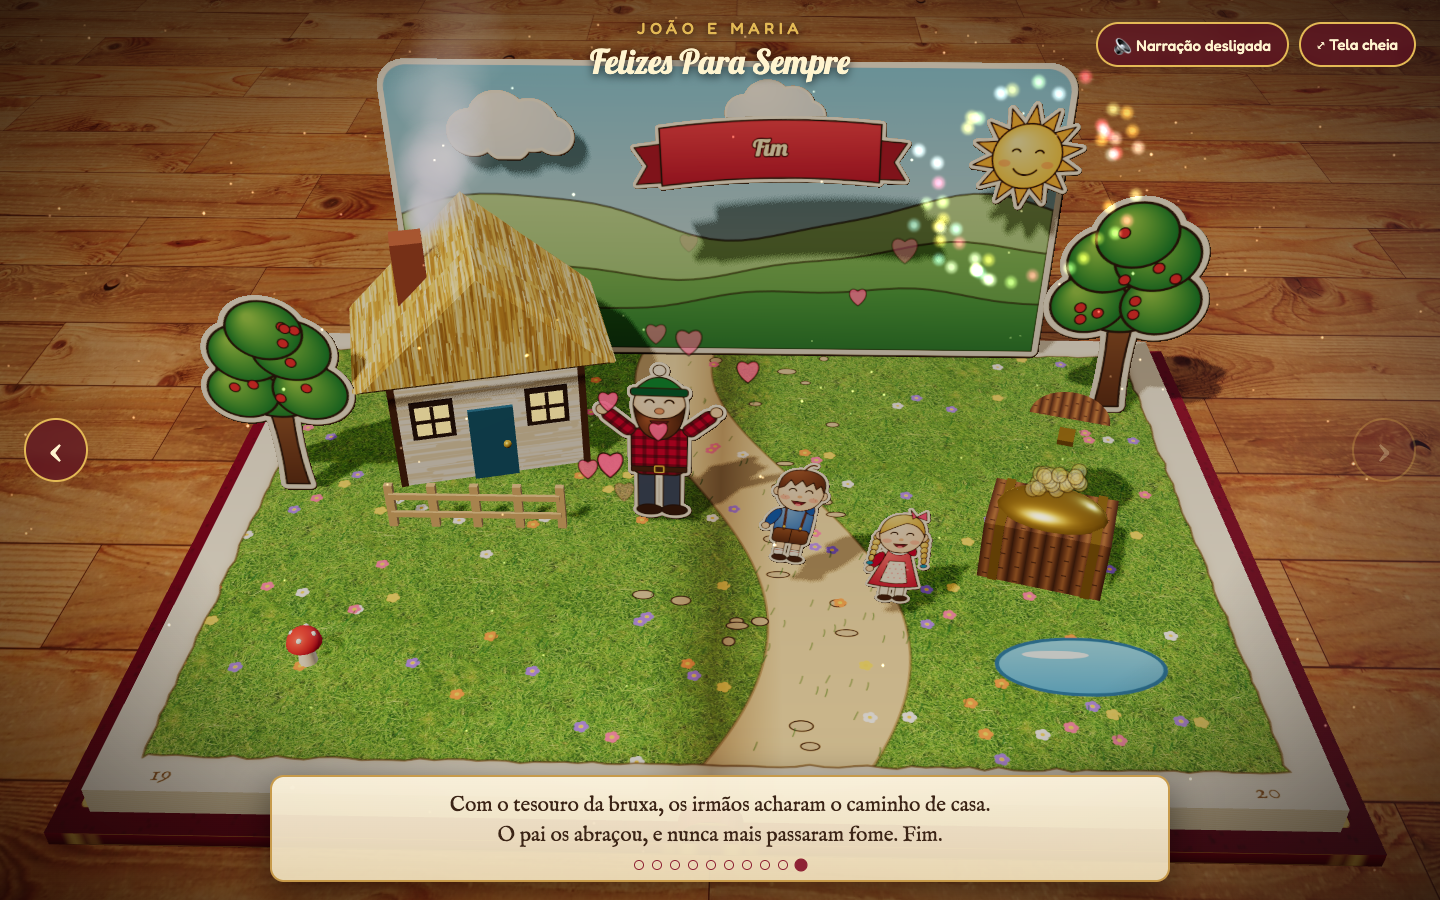
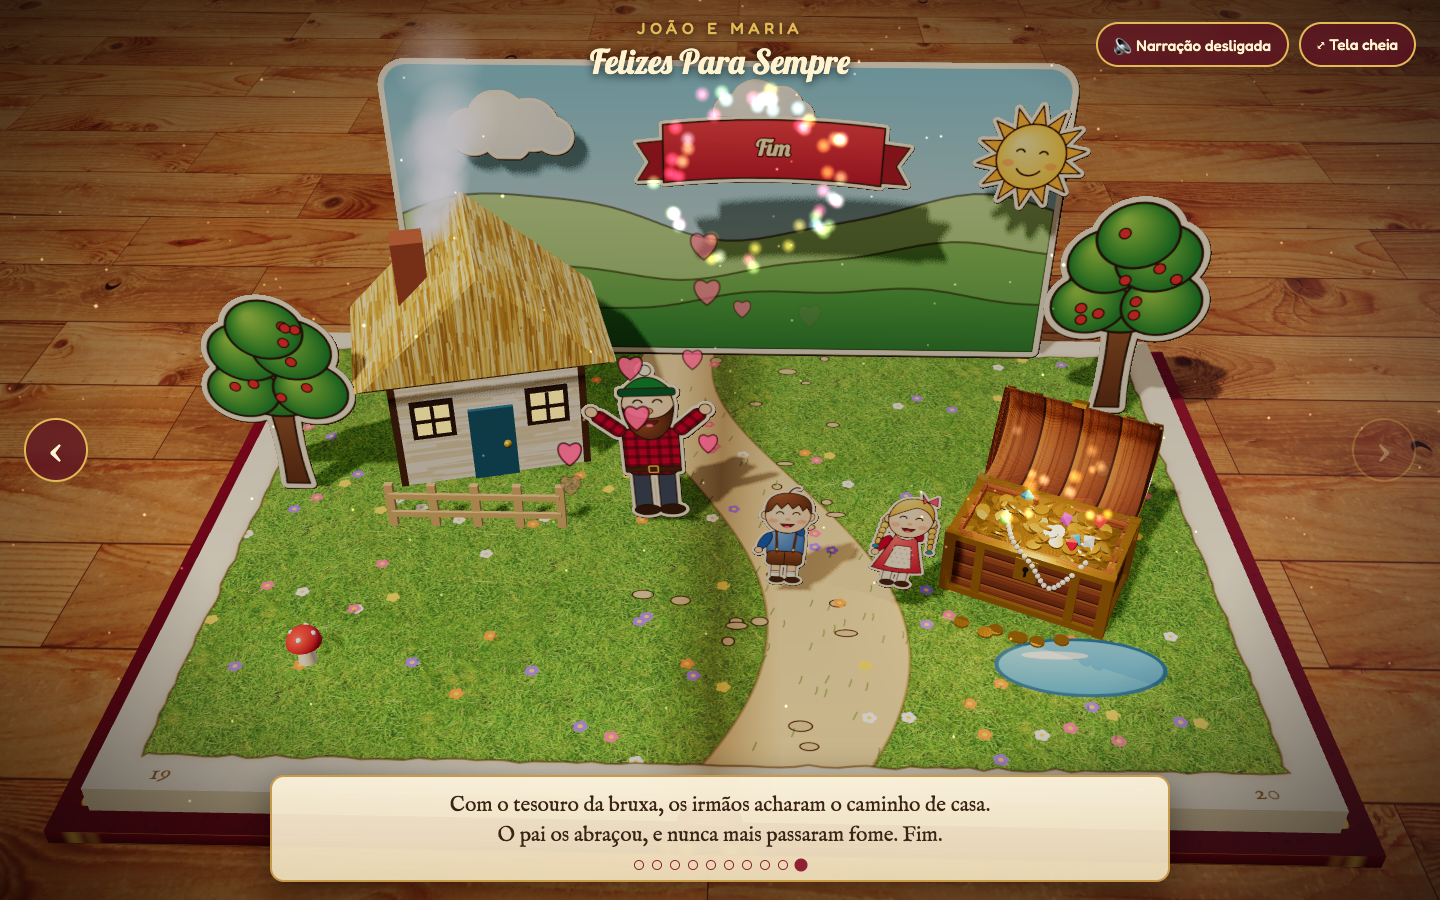
popup-book-joao-maria: redesign the treasure chest plank wood with gold trims, curved hinged lid, coin heap with gems and pearls, glow and sparkles

diff --git a/pocs/popup-book-joao-maria/src/scenes/models.ts b/pocs/popup-book-joao-maria/src/scenes/models.ts
@@ -9,7 +9,9 @@ import {
   LatheGeometry,
   Mesh,
   MeshStandardMaterial,
+  OctahedronGeometry,
   Path,
+  PointLight,
   RepeatWrapping,
   Shape,
   SphereGeometry,
@@ -475,41 +477,151 @@ export function oven(bricks: Texture): Oven {
 export interface Chest {
   group: Group;
   lid: Group;
+  glow: PointLight;
+}
+
+function plankTexture(): CanvasTexture {
+  const rand = seeded(17);
+  return toTexture(
+    paint(256, 256, (ctx, w, h) => {
+      const plank = h / 4;
+      for (let i = 0; i < 4; i++) {
+        const y = i * plank;
+        ctx.fillStyle = linear(ctx, y, y + plank, ["#b06a32", "#8a4a20", "#6e3818"]);
+        ctx.fillRect(0, y, w, plank);
+        ctx.strokeStyle = "rgba(60,25,8,0.35)";
+        ctx.lineWidth = 2;
+        for (let k = 0; k < 5; k++) {
+          const gy = y + 8 + rand() * (plank - 16);
+          ctx.beginPath();
+          ctx.moveTo(0, gy);
+          ctx.bezierCurveTo(w * 0.3, gy + (rand() - 0.5) * 8, w * 0.7, gy + (rand() - 0.5) * 8, w, gy);
+          ctx.stroke();
+        }
+        ctx.fillStyle = "#3b1d0c";
+        ctx.fillRect(0, y + plank - 4, w, 4);
+      }
+    }),
+  );
 }
 
 export function treasureChest(): Chest {
+  const W = 0.9;
+  const H = 0.42;
+  const D = 0.56;
+  const R = D / 2;
+  const T = 0.04;
   const g = new Group();
-  const wood = new MeshStandardMaterial({ map: repeat(logTexture(), 1, 1), roughness: 0.8 });
-  const gold = new MeshStandardMaterial({ color: "#ffc93c", metalness: 0.8, roughness: 0.3 });
-  const box = new Mesh(new BoxGeometry(0.8, 0.45, 0.5), wood);
-  box.position.y = 0.225;
-  g.add(box);
-  for (const x of [-0.3, 0.3]) {
-    const band = new Mesh(new BoxGeometry(0.06, 0.47, 0.52), gold);
-    band.position.set(x, 0.225, 0);
-    g.add(band);
+  const wood = new MeshStandardMaterial({ map: plankTexture(), roughness: 0.75, side: 2 });
+  const gold = new MeshStandardMaterial({ color: "#f5b82e", emissive: "#8a5a00", emissiveIntensity: 0.35, metalness: 0.85, roughness: 0.28 });
+  const dark = new MeshStandardMaterial({ color: "#1d120a", roughness: 0.9 });
+  const walls: [number, number, number, number, number, number][] = [
+    [W, H, T, 0, H / 2, D / 2 - T / 2],
+    [W, H, T, 0, H / 2, -D / 2 + T / 2],
+    [T, H, D, W / 2 - T / 2, H / 2, 0],
+    [T, H, D, -W / 2 + T / 2, H / 2, 0],
+    [W, T, D, 0, T / 2, 0],
+  ];
+  for (const [w, h, d, x, y, z] of walls) {
+    const wall = new Mesh(new BoxGeometry(w, h, d), wood);
+    wall.position.set(x, y, z);
+    g.add(wall);
   }
-  const coins = new Mesh(new SphereGeometry(0.36, 20, 8, 0, Math.PI * 2, 0, Math.PI / 2), gold);
-  coins.scale.set(1, 0.45, 0.62);
-  coins.position.y = 0.43;
-  g.add(coins);
+  for (const sx of [-1, 1]) for (const sz of [-1, 1]) {
+    const post = new Mesh(new BoxGeometry(0.06, H + 0.01, 0.06), gold);
+    post.position.set(sx * W / 2, H / 2, sz * D / 2);
+    g.add(post);
+  }
+  for (const y of [0.025, H - 0.02]) {
+    for (const sz of [-1, 1]) {
+      const rim = new Mesh(new BoxGeometry(W + 0.02, 0.04, 0.05), gold);
+      rim.position.set(0, y, sz * D / 2);
+      g.add(rim);
+    }
+    for (const sx of [-1, 1]) {
+      const rim = new Mesh(new BoxGeometry(0.05, 0.04, D + 0.02), gold);
+      rim.position.set(sx * W / 2, y, 0);
+      g.add(rim);
+    }
+  }
+  for (const x of [-0.27, 0.27]) {
+    const strap = new Mesh(new BoxGeometry(0.05, H, 0.02), gold);
+    strap.position.set(x, H / 2, D / 2 + 0.012);
+    g.add(strap);
+  }
+  const plate = new Mesh(new BoxGeometry(0.13, 0.15, 0.03), gold);
+  plate.position.set(0, H - 0.1, D / 2 + 0.018);
+  const hole = new Mesh(new CylinderGeometry(0.016, 0.016, 0.02, 12), dark);
+  hole.rotation.x = Math.PI / 2;
+  hole.position.set(0, H - 0.085, D / 2 + 0.035);
+  const slot = new Mesh(new BoxGeometry(0.012, 0.04, 0.02), dark);
+  slot.position.set(0, H - 0.115, D / 2 + 0.035);
+  g.add(plate, hole, slot);
+  const bed = new Mesh(new BoxGeometry(W - 2 * T, 0.02, D - 2 * T), gold);
+  bed.position.y = H - 0.07;
+  g.add(bed);
   const rand = seeded(13);
-  for (let i = 0; i < 6; i++) {
-    const gem = new Mesh(new DodecahedronGeometry(0.05, 0), new MeshStandardMaterial({ color: CANDY[i] ?? "#ff5d8f", emissive: CANDY[i] ?? "#ff5d8f", emissiveIntensity: 0.4, roughness: 0.2, flatShading: true }));
-    gem.position.set(-0.25 + rand() * 0.5, 0.5, -0.1 + rand() * 0.2);
+  const coin = new CylinderGeometry(0.042, 0.042, 0.012, 18);
+  for (let i = 0; i < 110; i++) {
+    const x = (rand() - 0.5) * (W - 0.14);
+    const z = (rand() - 0.5) * (D - 0.14);
+    const mound = Math.max(0, 1 - (x / (W / 2)) ** 2 - (z / (D / 2)) ** 2);
+    const piece = new Mesh(coin, gold);
+    piece.position.set(x, H - 0.055 + mound * 0.13 * (0.6 + rand() * 0.4), z);
+    piece.rotation.set((rand() - 0.5) * 1.1, rand() * Math.PI, (rand() - 0.5) * 1.1);
+    g.add(piece);
+  }
+  const gems = ["#e8203c", "#2f9fe8", "#3ccf6a", "#b04ae8", "#ffffff"];
+  for (let i = 0; i < 7; i++) {
+    const color = gems[i % gems.length] ?? "#e8203c";
+    const gem = new Mesh(new OctahedronGeometry(0.045, 0), new MeshStandardMaterial({ color, emissive: color, emissiveIntensity: 0.35, metalness: 0.2, roughness: 0.1, flatShading: true }));
+    const x = (rand() - 0.5) * (W - 0.3);
+    const z = (rand() - 0.5) * (D - 0.25);
+    gem.position.set(x, H + 0.06 * Math.max(0, 1 - (x / (W / 2)) ** 2), z);
+    gem.rotation.set(rand(), rand(), rand());
     g.add(gem);
   }
+  const necklace = new CatmullRomCurve3([
+    new Vector3(-0.22, H + 0.03, 0.02),
+    new Vector3(-0.1, H + 0.03, D / 2 - 0.02),
+    new Vector3(0.02, H - 0.03, D / 2 + 0.04),
+    new Vector3(0.14, H - 0.16, D / 2 + 0.045),
+    new Vector3(0.24, H - 0.05, D / 2 + 0.04),
+    new Vector3(0.3, H + 0.02, D / 2 - 0.04),
+  ]);
+  const pearl = new MeshStandardMaterial({ color: "#fff8ee", roughness: 0.15, metalness: 0.1 });
+  for (const point of necklace.getSpacedPoints(26)) {
+    const bead = new Mesh(new SphereGeometry(0.016, 10, 8), pearl);
+    bead.position.copy(point);
+    g.add(bead);
+  }
+  for (let i = 0; i < 7; i++) {
+    const loose = new Mesh(coin, gold);
+    loose.position.set(-0.35 + rand() * 0.7, 0.007 + (i === 2 ? 0.013 : 0), D / 2 + 0.1 + rand() * 0.22);
+    loose.rotation.y = rand() * Math.PI;
+    g.add(loose);
+  }
   const lid = new Group();
-  const top = new Mesh(new CylinderGeometry(0.25, 0.25, 0.8, 20, 1, false, 0, Math.PI), wood);
-  top.rotation.z = Math.PI / 2;
-  top.rotation.y = Math.PI / 2;
-  top.position.set(0, 0, 0.25);
-  const lock = new Mesh(new BoxGeometry(0.1, 0.12, 0.04), gold);
-  lock.position.set(0, -0.02, 0.51);
-  lid.add(top, lock);
-  lid.position.set(0, 0.45, -0.25);
+  const shell = new Mesh(new CylinderGeometry(R, R, W, 28, 1, false, 0, Math.PI), wood);
+  shell.rotation.z = Math.PI / 2;
+  shell.position.set(0, 0, R);
+  lid.add(shell);
+  for (const x of [-W / 2 + 0.02, -0.27, 0.27, W / 2 - 0.02]) {
+    const band = new Mesh(new CylinderGeometry(R + 0.012, R + 0.012, 0.05, 28, 1, true, 0, Math.PI), gold);
+    band.material.side = 2;
+    band.rotation.z = Math.PI / 2;
+    band.position.set(x, 0, R);
+    lid.add(band);
+  }
+  const hasp = new Mesh(new BoxGeometry(0.08, 0.1, 0.025), gold);
+  hasp.position.set(0, -0.02, D + 0.018);
+  lid.add(hasp);
+  lid.position.set(0, H, -D / 2);
   g.add(lid);
-  return { group: g, lid };
+  const glow = new PointLight("#ffc85a", 0, 2.2, 1.5);
+  glow.position.set(0, H + 0.35, 0.1);
+  g.add(glow);
+  return { group: g, lid, glow };
 }
 
 export function stump(): Group {

diff --git a/pocs/popup-book-joao-maria/src/scenes/finale.ts b/pocs/popup-book-joao-maria/src/scenes/finale.ts
@@ -94,8 +94,8 @@ export const theEnd: SceneBuilder = (ctx) => {
   const father = scene.cutout(paintFather("joy"), 1.7, -0.5, 0.1);
   const kids = [scene.cutout(child("joao", "joy", { wave: true }), 1.1, 0.5, 0.95), scene.cutout(child("maria", "joy", { wave: true }), 1.05, 1.3, 1.2)];
   const chest = treasureChest();
-  chest.group.scale.setScalar(1.2);
-  scene.solid(chest.group, 2.6, 0.5, 0.5, -0.3);
+  chest.group.scale.setScalar(1.35);
+  scene.solid(chest.group, 2.5, 0.7, 0.5, -0.45);
   scene.solid(mushroom(), -3.0, 1.7, 0.6);
   const coins = particles(scene, {
     texture: toTexture(paintCoin()),
@@ -103,13 +103,27 @@ export const theEnd: SceneBuilder = (ctx) => {
     rate: 0,
     gravity: 3,
     spawn: (p, rand) => {
-      p.sprite.position.set(2.6 + (rand() - 0.5) * 0.3, 0.95, 0.5);
-      p.velocity.set((rand() - 0.5) * 1.4, 1.8 + rand() * 1.2, (rand() - 0.2) * 0.8);
-      p.life = 1.1 + rand() * 0.4;
-      p.size = 0.14;
+      p.sprite.position.set(2.5 + (rand() - 0.5) * 0.4, 1.0, 0.7);
+      p.velocity.set((rand() - 0.5) * 1.0, 1.6 + rand() * 0.9, (rand() - 0.2) * 0.6);
+      p.life = 0.9 + rand() * 0.4;
+      p.size = 0.11;
       p.spin = (rand() - 0.5) * 8;
     },
   });
+  const shine = particles(scene, {
+    texture: ctx.assets.spark,
+    count: 40,
+    rate: 16,
+    additive: true,
+    colors: ["#ffe27a", "#fff3b0", "#ffc93c"],
+    spawn: (p, rand) => {
+      p.sprite.position.set(2.5 + (rand() - 0.5) * 0.9, 1.0, 0.7 + (rand() - 0.5) * 0.5);
+      p.velocity.set((rand() - 0.5) * 0.15, 0.35 + rand() * 0.3, 0);
+      p.life = 0.8 + rand() * 0.6;
+      p.size = 0.1 + rand() * 0.12;
+    },
+  });
+  shine.emitting = false;
   particles(scene, {
     texture: toTexture(paintHeart()),
     count: 30,
@@ -150,9 +164,11 @@ export const theEnd: SceneBuilder = (ctx) => {
     }
     const c = loop(t, 5);
     const open = smooth(c, 0.3, 1.0) * (1 - smooth(c, 4.2, 4.9));
-    chest.lid.rotation.x = -1.4 * open;
+    chest.lid.rotation.x = -1.95 * open;
+    chest.glow.intensity = open * 4;
+    shine.emitting = open > 0.6;
     if (open > 0.9 && !spilled) {
-      coins.burst(25);
+      coins.burst(12);
       spilled = true;
     }
     if (open < 0.1) spilled = false;

diff --git a/pocs/popup-book-joao-maria/README.md b/pocs/popup-book-joao-maria/README.md
@@ -4,7 +4,7 @@
 
 A 3D pop-up book of *João e Maria* (Hansel and Gretel), written and narrated in Brazilian Portuguese and rendered with three.js in the browser.
 The book lies open on a wooden table. Each spread mixes 2D paper cutouts (João, Maria, the witch, the woodcutter, birds, an owl, trees, speech bubbles)
-with real 3D models (a gingerbread house with a chocolate roof, lollipops, candy canes, an iron cage, a brick oven with a swinging door, a treasure chest).
+with real 3D models (a gingerbread house with a chocolate roof, lollipops, candy canes, an iron cage, a brick oven with a swinging door, a treasure chest full of coins and gems).
 When you turn a page the cutouts fold flat, the page curls over the spine, and the next scene springs up in layers.
 Every scene plays its own loop: birds eat the bread crumbs, an owl blinks, the witch opens her door, Maria pushes her into the oven.
 The story runs for 10 spreads, each with a 2 line caption in Portuguese.
@@ -128,7 +128,7 @@ Ran 43 tests across 4 files.
 **O Forno** - Maria runs in and pushes the witch into the glowing 3D oven; the iron door slams shut and sparks burst from the chimney.
 ![O Forno](printscreens/09-forno.png)
 
-**Felizes Para Sempre** - the woodcutter opens his arms, the children dance, the treasure chest opens and spills coins under fireworks and hearts.
+**Felizes Para Sempre** - the woodcutter opens his arms, the children dance, and the witch's 3D treasure chest (plank wood, gold trims, curved lid) swings open on a glowing heap of coins, gems and a pearl necklace, under fireworks and hearts.
 ![Felizes Para Sempre](printscreens/10-fim.png)
 
 **Mobile** - on a phone the camera moves in so the book fills the width, the toggles sit under the title, and pages turn with a swipe.
